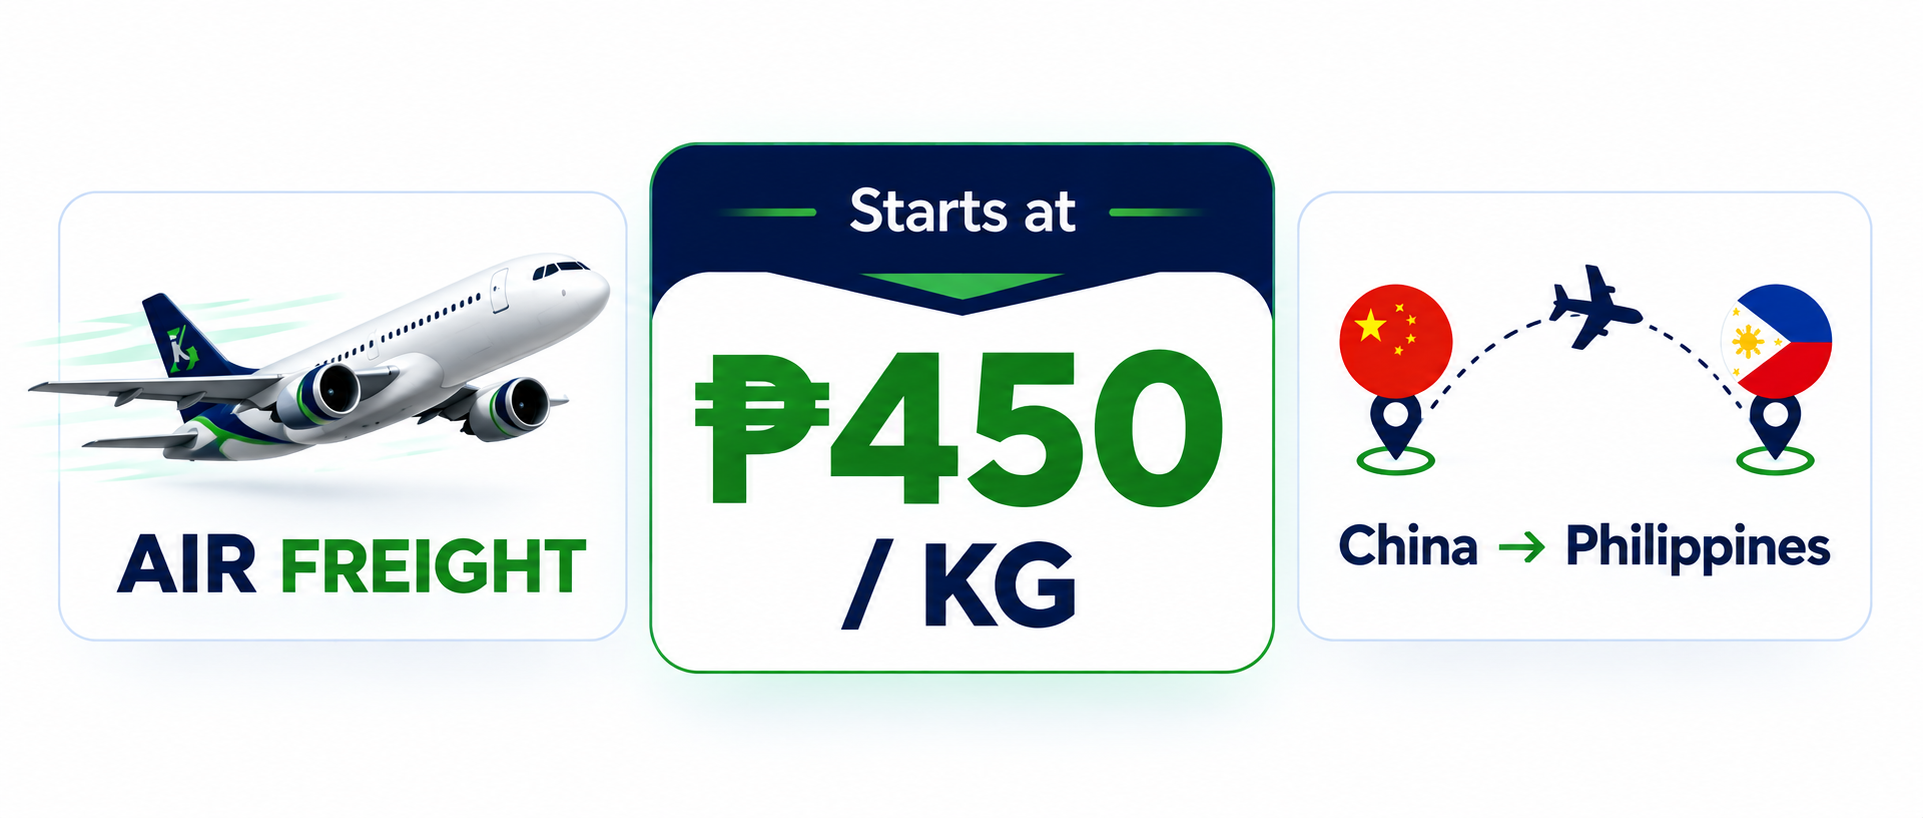
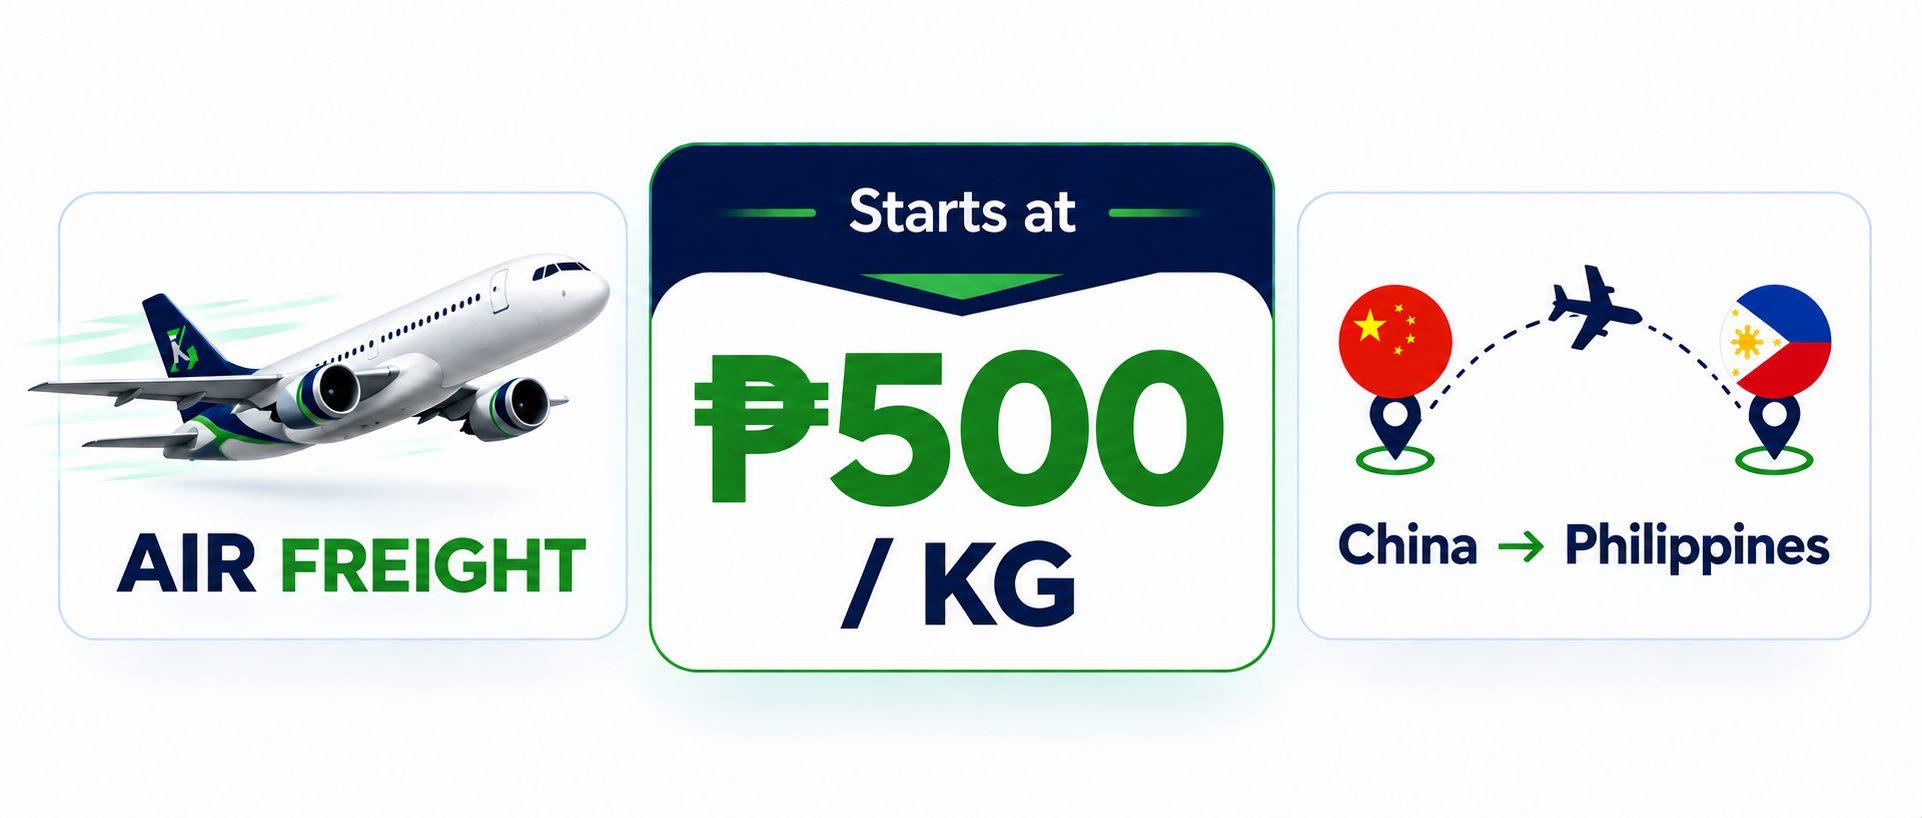
fix: update air freight rates and contact number

diff --git a/tests/admin/quotation-pdf.test.ts b/tests/admin/quotation-pdf.test.ts
@@ -3,5 +3,5 @@ import test from "node:test";
 import { customerQuotationPdf } from "../../lib/admin/quotation-pdf";
 
 const saved={quotation_number:"KD-Q-2026-001",quotation_date:"2026-09-10",freight_type:"Sea Freight",final_amount:125000,customer_snapshot:JSON.stringify({name:"Ada Customer",company:"Example Trading",mobile:"09171234567",email:"ada@example.com",address:"Manila"}),cargo_snapshot:JSON.stringify({description:"Household wares",category:"General Cargo",quantity:99,unitType:"boxes",length:40,width:30,height:20,measurementUnit:"cm",cbm:.024,weight:12,origin:"Guangzhou",originWarehouse:"China Warehouse"}),pricing_snapshot:JSON.stringify({density:500,rateBasis:"PHP 520 / CBM",formula:"0.024 CBM x PHP 520"}),backend_cost:999999,nihao_cost:999999,gross_margin:999999,override_reason:"Internal reason",notes:"Admin notes"};
-test("customer quotation PDF follows the branded saved-data template",()=>{const pdf=new TextDecoder().decode(customerQuotationPdf(saved)),date=pdf.indexOf("Date: 2026-09-10"),number=pdf.indexOf("Quotation No.: KD-Q-2026-001"),hiddenCjk="\u91c7\u8d2d \u00b7 \u8fd0\u8f93 \u00b7 \u6536\u8d27";assert.ok(pdf.startsWith("%PDF-1.4"));assert.ok(date>=0&&number>date);for(const value of ["KargoDoorPH","QUOTATION","Ada Customer","CARGO DETAILS","Category: General Cargo","Quantity / Packages: 1 package","Dimensions \\(L \\327 W \\327 H\\)","SHIPPING CALCULATION","Density: 500.00 kg/CBM","Applicable Rate / Basis: PHP 520 / CBM","ESTIMATED ALL-IN RATE","FCA - KargoDoor Origin Warehouse","Origin Warehouse > Manila Customs Clearance >","+63 918 943 4747","+63 908 889 0664","support@kargodoorph.com","www.kargodoorph.com","facebook.com/KargoDoorPH","@kargodoorph","SOURCE \\267 SHIP \\267 RECEIVE"])assert.ok(pdf.includes(value));assert.ok(!pdf.includes(hiddenCjk));for(const forbidden of ["999999","Internal reason","Admin notes","backend_cost","nihao_cost","gross_margin","Quantity / Packages: 99"])assert.ok(!pdf.includes(forbidden));});
+test("customer quotation PDF follows the branded saved-data template",()=>{const pdf=new TextDecoder().decode(customerQuotationPdf(saved)),date=pdf.indexOf("Date: 2026-09-10"),number=pdf.indexOf("Quotation No.: KD-Q-2026-001"),hiddenCjk="\u91c7\u8d2d \u00b7 \u8fd0\u8f93 \u00b7 \u6536\u8d27";assert.ok(pdf.startsWith("%PDF-1.4"));assert.ok(date>=0&&number>date);for(const value of ["KargoDoorPH","QUOTATION","Ada Customer","CARGO DETAILS","Category: General Cargo","Quantity / Packages: 1 package","Dimensions \\(L \\327 W \\327 H\\)","SHIPPING CALCULATION","Density: 500.00 kg/CBM","Applicable Rate / Basis: PHP 520 / CBM","ESTIMATED ALL-IN RATE","FCA - KargoDoor Origin Warehouse","Origin Warehouse > Manila Customs Clearance >","+63 917 157 7370","+63 908 889 0664","support@kargodoorph.com","www.kargodoorph.com","facebook.com/KargoDoorPH","@kargodoorph","SOURCE \\267 SHIP \\267 RECEIVE"])assert.ok(pdf.includes(value));assert.ok(!pdf.includes(hiddenCjk));for(const forbidden of ["999999","Internal reason","Admin notes","backend_cost","nihao_cost","gross_margin","Quantity / Packages: 99"])assert.ok(!pdf.includes(forbidden));});
 test("customer quotation PDF is a single A4 page",()=>{const pdf=new TextDecoder().decode(customerQuotationPdf(saved));assert.match(pdf,/\/MediaBox \[0 0 595 842\]/);assert.match(pdf,/\/Count 1/);});

diff --git a/tests/admin/quotation-pricing.test.ts b/tests/admin/quotation-pricing.test.ts
@@ -16,8 +16,8 @@ test("mobile sea is unit priced and never density priced", () => {
   assert.equal(quote.final,7750); assert.equal(quote.densityCharge,0); assert.equal(quote.packageTier,"KD Standard");
 });
 test("air weight and piece calculations", () => {
-  assert.equal(airQuote("Ordinary Items",1,10,1).final,58450);
-  assert.equal(airQuote("Liquid, Powder, Food, Computer Parts, Electronics",.2,100,1).final,45000);
+  assert.equal(airQuote("Ordinary Items",1,10,1).final,83500);
+  assert.equal(airQuote("Liquid, Powder, Food, Computer Parts, Electronics",.2,100,1).final,60000);
   assert.equal(airQuote("Mobile Phones",0,0,20).final,19000);
   assert.equal(airQuote("Tablets",0,0,10).final,12000);
   assert.equal(airQuote("Laptop Computers",0,0,5).final,14000);
@@ -34,4 +34,4 @@ test("air recalculates billable weight from changed CBM or actual weight", () =>
 });
 
 test("sea density and special-item mappings retain workbook rules",()=>{const smallDense=seaQuote("LOW VALUE GOODS",.01,100);assert.equal(smallDense.densityApplies,true);assert.equal(smallDense.packageTier,"KD Max");assert.equal(itemCategories["Mobile / computer parts & accessories"],"MOBILE / COMPUTERS / TABLETS");for(const item of ["Mobile phones","Computers","Tablets"]){assert.equal(itemCategories[item],"MOBILE / COMPUTERS / TABLETS");assert.equal(seaQuote(itemCategories[item],.5,20,2).final,5750);}});
-test("air categories retain approved unrounded and per-piece pricing",()=>{assert.equal(airQuote("Medicine and Food Supplements",.1,10,1).final,8350);assert.equal(airQuote("Ordinary Items",.01,10,1).billableWeight,10);const fractional=airQuote("Ordinary Items",.5,60,1);assert.equal(fractional.volumetricWeight,83.5);assert.equal(fractional.billableWeight,83.5);assert.equal(fractional.final,29225);assert.equal(airQuote("Mobile Phones",0,0,1).rate,950);assert.equal(airQuote("Tablets",0,0,1).rate,1200);assert.equal(airQuote("Laptop Computers",0,0,1).rate,2800);assert.throws(()=>airQuote("Ordinary Items",Infinity,1,1));});
+test("air categories retain approved unrounded and per-piece pricing",()=>{assert.equal(airQuote("Medicine and Food Supplements",.1,10,1).final,10855);assert.equal(airQuote("Ordinary Items",.01,10,1).billableWeight,10);const fractional=airQuote("Ordinary Items",.5,60,1);assert.equal(fractional.volumetricWeight,83.5);assert.equal(fractional.billableWeight,83.5);assert.equal(fractional.final,41750);assert.equal(airQuote("Mobile Phones",0,0,1).rate,950);assert.equal(airQuote("Tablets",0,0,1).rate,1200);assert.equal(airQuote("Laptop Computers",0,0,1).rate,2800);assert.throws(()=>airQuote("Ordinary Items",Infinity,1,1));});

diff --git a/tests/admin/core.test.ts b/tests/admin/core.test.ts
@@ -127,14 +127,14 @@ const shipment = (id: string) => shipmentSchema.parse(shipmentInput(id));
 
 test("live admin Air calculation delegates to the authoritative pricing engine", () => {
   const ordinary = calculateAdminAirQuote({ freightType: "Air Freight", item: "Ordinary Items", cbm: "0.10", weight: "10", quantity: "1" });
-  assert.equal(ordinary.rate, 350);
+  assert.equal(ordinary.rate, 500);
   assert.equal(ordinary.volumetricWeight, 16.7);
   assert.equal(ordinary.billableWeight, 16.7);
-  assert.equal(ordinary.final, 5845);
+  assert.equal(ordinary.final, 8350);
   const actualWeight = calculateAdminAirQuote({ freightType: "Air Freight", item: "Ordinary Items", cbm: "0.01", weight: "20.1", quantity: "1" });
   assert.equal(actualWeight.billableWeight, 20.1);
-  assert.equal(calculateAdminAirQuote({ freightType: "Air Freight", item: "Liquid, Powder, Food, Computer Parts, Electronics", cbm: "0.01", weight: "1", quantity: "1" }).rate, 450);
-  assert.equal(calculateAdminAirQuote({ freightType: "Air Freight", item: "Medicine and Food Supplements", cbm: "0.01", weight: "1", quantity: "1" }).rate, 500);
+  assert.equal(calculateAdminAirQuote({ freightType: "Air Freight", item: "Liquid, Powder, Food, Computer Parts, Electronics", cbm: "0.01", weight: "1", quantity: "1" }).rate, 600);
+  assert.equal(calculateAdminAirQuote({ freightType: "Air Freight", item: "Medicine and Food Supplements", cbm: "0.01", weight: "1", quantity: "1" }).rate, 650);
   for (const [item, rate] of [["Mobile Phones", 950], ["Tablets", 1200], ["Laptop Computers", 2800]] as const) {
     const result = calculateAdminAirQuote({ freightType: "Air Freight", item, cbm: "0", weight: "0", quantity: "2" });
     assert.equal(result.rateBasis, "Per piece");

diff --git a/lib/admin/quotation-pdf.ts b/lib/admin/quotation-pdf.ts
@@ -104,7 +104,7 @@ function customerQuotationPdf(q: QuotationPdfData): Uint8Array<ArrayBuffer> {
   lines.push(`${blue} RG 52 193 m 543 193 l S`);
   text("KARGODOOR PH", 52, 8, true, blue);
   text("China to PH, made SIMPLE.", 52, 7, false, blue);
-  text("+63 918 943 4747 | +63 908 889 0664", 52, 7, false, blue);
+  text("+63 917 157 7370 | +63 908 889 0664", 52, 7, false, blue);
   text("support@kargodoorph.com | www.kargodoorph.com | facebook.com/KargoDoorPH", 52, 7, false, blue);
   text("Instagram: @kargodoorph | SOURCE · SHIP · RECEIVE", 52, 7, false, blue);
   const stream = lines.join("\n"), objects = ["<< /Type /Catalog /Pages 2 0 R >>", "<< /Type /Pages /Kids [3 0 R] /Count 1 >>", "<< /Type /Page /Parent 2 0 R /MediaBox [0 0 595 842] /Resources << /Font << /F1 4 0 R /F2 5 0 R >> >> /Contents 6 0 R >>", "<< /Type /Font /Subtype /Type1 /BaseFont /Helvetica /Encoding /WinAnsiEncoding >>", "<< /Type /Font /Subtype /Type1 /BaseFont /Helvetica-Bold /Encoding /WinAnsiEncoding >>", `<< /Length ${new TextEncoder().encode(stream).length} >>

diff --git a/lib/admin/quotation-pricing.ts b/lib/admin/quotation-pricing.ts
@@ -18,7 +18,7 @@ export const itemCategories: Record<string, SeaCategory> = {
 export const airItems = ["Ordinary Items","Liquid, Powder, Food, Computer Parts, Electronics","Medicine and Food Supplements","Mobile Phones","Tablets","Laptop Computers"] as const;
 export type AirItem = typeof airItems[number];
 export const airPieceRates: Partial<Record<AirItem, number>> = { "Mobile Phones": 950, Tablets: 1200, "Laptop Computers": 2800 };
-export const airPerKgRates = { ordinary: 350, restricted: 450, medicine: 500 } as const;
+export const airPerKgRates = { ordinary: 500, restricted: 600, medicine: 650 } as const;
 export const airVolumetricFactor = 167;
 const valid = (value: number) => Number.isFinite(value) && value >= 0;
 export function seaQuote(category: SeaCategory, cbm: number, weight: number, units = 0) {

diff --git a/app/rates-calculator/page.tsx b/app/rates-calculator/page.tsx
@@ -382,7 +382,7 @@ export default function RatesCalculatorPage() {
               />
               <img
                 src="/assets/kargodoor-air-freight-rates-approved.png"
-                alt="Air Freight Rates starting at 450 pesos per kilogram from China to the Philippines"
+                alt="Air Freight Rates starting at 500 pesos per kilogram from China to the Philippines"
                 width={1923}
                 height={818}
                 loading="lazy"

diff --git a/components/site-chrome.tsx b/components/site-chrome.tsx
@@ -120,7 +120,7 @@ export function Footer() {
         <div className="kd-footer-grid">
           <section>
             <h2>CONTACT INFORMATION</h2>
-            <p><a href="tel:+639189434747">+63 918 943 4747</a></p>
+            <p><a href="tel:+639171577370">+63 917 157 7370</a></p>
             <p><a href="tel:+639088890664">+63 908 889 0664</a></p>
             <p>
               Email:{" "}

diff --git a/app/contact-us/page.tsx b/app/contact-us/page.tsx
@@ -17,8 +17,8 @@ const contactCards: ContactCard[] = [
     title: "MESSAGE US",
     details: [
       {
-        label: "+63 918 943 4747",
-        href: "tel:+639189434747",
+        label: "+63 917 157 7370",
+        href: "tel:+639171577370",
       },
       {
         label: "+63 908 889 0664",
